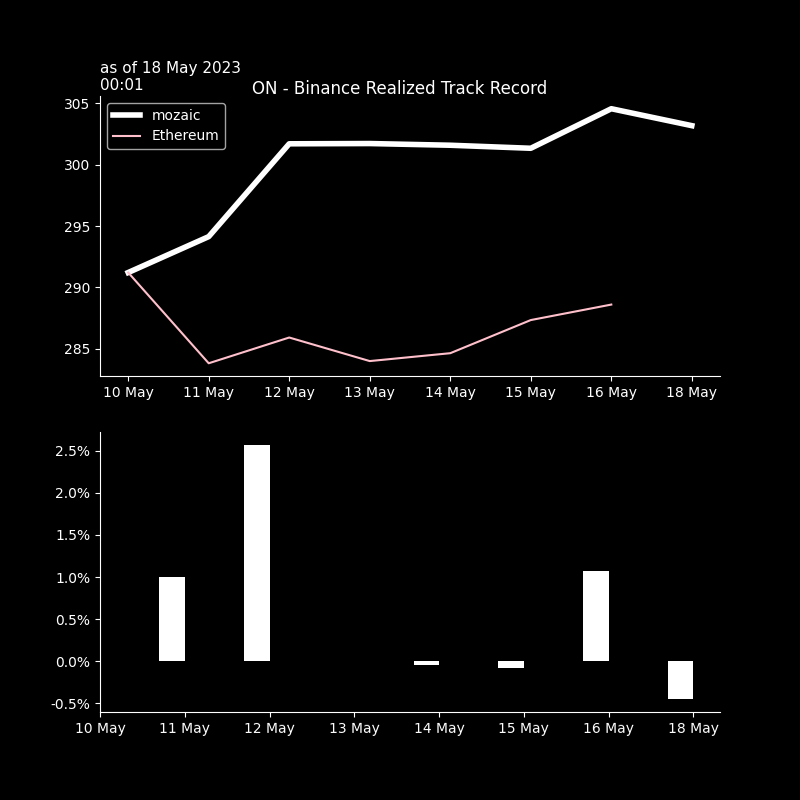
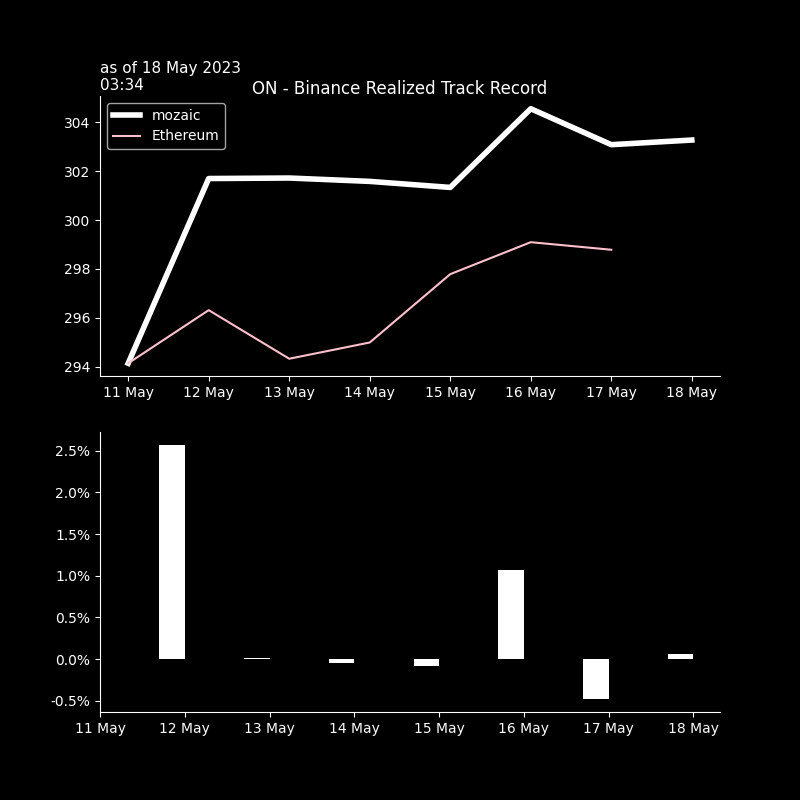
seb_commit

diff --git a/crypto/graphs/bt_trades_recap.htmltrade_trades_recap.html b/crypto/graphs/bt_trades_recap.htmltrade_trades_recap.html
@@ -9,32 +9,32 @@
   <tbody>
     <tr>
       <th>as of</th>
-      <td>17May 22:32&gt;&gt;22:32</td>
+      <td>18May 02:33&gt;&gt;02:33</td>
       <td>#trades: 1</td>
     </tr>
     <tr>
       <th>trade net</th>
-      <td>-68.0</td>
-      <td>-22.4%</td>
+      <td>+37.0</td>
+      <td>+12.2%</td>
     </tr>
     <tr>
       <th>trade gross</th>
-      <td>+68.0</td>
-      <td>+22.4%</td>
+      <td>+37.0</td>
+      <td>+12.2%</td>
     </tr>
     <tr>
       <th>BUY</th>
+      <td>+37.0</td>
+      <td>+12.2%</td>
+    </tr>
+    <tr>
+      <th>SELL</th>
       <td>+0.0</td>
       <td>+0.0%</td>
     </tr>
     <tr>
-      <th>SELL</th>
-      <td>-68.0</td>
-      <td>-22.4%</td>
-    </tr>
-    <tr>
       <th>fees</th>
-      <td>$ 0.014</td>
+      <td>$ 0.007</td>
       <td>2.0bp</td>
     </tr>
   </tbody>

diff --git a/crypto/graphs/bt_trades_pnlD_recap.htmltrade_trades_pnlD_recap.html b/crypto/graphs/bt_trades_pnlD_recap.htmltrade_trades_pnlD_recap.html
@@ -1,7 +1,7 @@
 <table border="1" class="dataframe">
   <thead>
     <tr style="text-align: right;">
-      <th>17 May 23:32</th>
+      <th>18 May 03:33</th>
       <th>realizedPnl</th>
       <th>PnLvsArrival</th>
       <th>PnLvsLast</th>
@@ -10,21 +10,21 @@
   <tbody>
     <tr>
       <th>in$</th>
-      <td>0.1</td>
       <td>-0.0</td>
+      <td>0.0</td>
       <td>0.0</td>
     </tr>
     <tr>
-      <th>in bp 67 traded</th>
-      <td>22 bp</td>
-      <td>-1 bp</td>
-      <td>3 bp</td>
+      <th>in bp 37 traded</th>
+      <td>-3 bp</td>
+      <td>0 bp</td>
+      <td>0 bp</td>
     </tr>
     <tr>
       <th>in bp 303 AUMs</th>
-      <td>5 bp</td>
       <td>-0 bp</td>
-      <td>1 bp</td>
+      <td>0 bp</td>
+      <td>0 bp</td>
     </tr>
   </tbody>
 </table>

diff --git a/crypto/graphs/bt_trades_book.htmltrade_trades_book.html b/crypto/graphs/bt_trades_book.htmltrade_trades_book.html
@@ -38,20 +38,20 @@
   <tbody>
     <tr>
       <th>XRPUSDT</th>
-      <td>0.4457</td>
-      <td>2023-05-17 22:32:12</td>
-      <td>-152.3</td>
-      <td>$-67.9</td>
+      <td>0.4458</td>
+      <td>2023-05-18 02:33:42</td>
+      <td>83.9</td>
+      <td>$37.4</td>
       <td>$0.01</td>
       <td>2.0</td>
-      <td>0.1</td>
-      <td>0.44575</td>
-      <td>2023-05-17 23:31</td>
       <td>-0.0</td>
-      <td>-1.0</td>
-      <td>.4456</td>
+      <td>0.44585</td>
+      <td>2023-05-18 03:31</td>
       <td>0.0</td>
-      <td>3.0</td>
+      <td>0.0</td>
+      <td>.4458</td>
+      <td>-0.0</td>
+      <td>-0.0</td>
     </tr>
   </tbody>
 </table>
